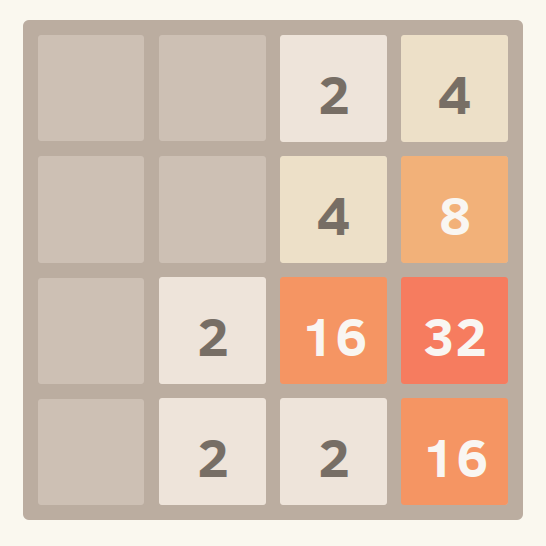
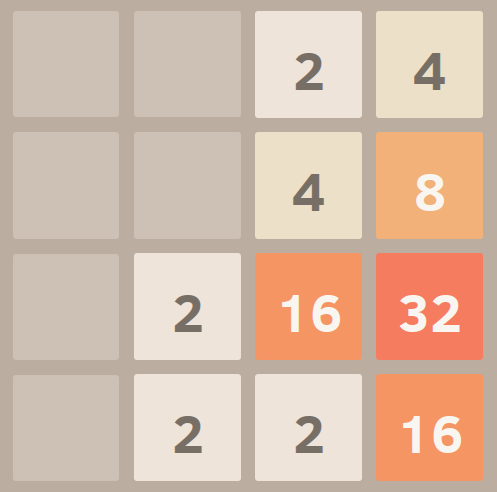
add 2048 image

diff --git a/index.html b/index.html
@@ -69,6 +69,11 @@
 							<img class="project" src="img/weather.jpg" alt="Weather image">
 							<a href="https://github.com/haitanle/AndroidProgramming/tree/master/MySunshineApplication">source code</a>
 					</div>
+					<div class="project project4">
+							<h3>2048 game</h3>
+							<img class="project" src="img/2048.png" alt="2048 game image">
+							<a href="https://github.com/haitanle/2048">https://github.com/haitanle/2048</a>
+					</div>
 			</section>
 		</section>
 	<script src="js/app.js"></script>
